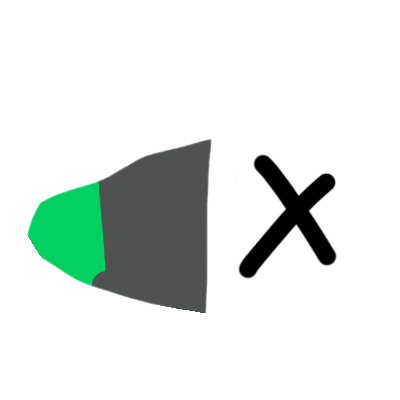
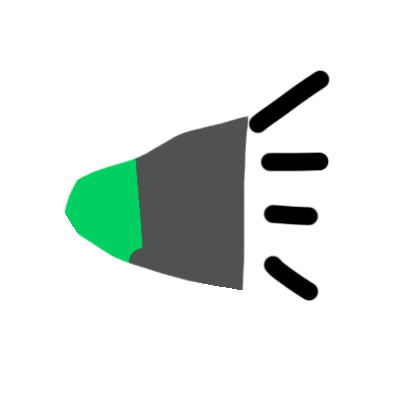
functional mute and option changing

Changed region(s): [[0.06, 0.15, 0.84, 0.78]]

diff --git a/scripts/pomodoro.js b/scripts/pomodoro.js
@@ -1,5 +1,5 @@
-const BREAK_TIME = 15; // break time in seconds
-const WORK_TIME = 12; // work time in seconds'
+var BREAK_TIME = 15; // break time in seconds
+var WORK_TIME = 12; // work time in seconds'
 const TRANSITION_TIME = 10; // how long to be in transition state for
 
 var muted = true;  // this gets flipped when the script is called, so default is unmuted actually
@@ -25,7 +25,7 @@ const getTimeLeft = (endTime) => {
 const CURR_TIME = Date.now();
 
 const transitionButton = () => {
-  finishSound.play();
+  if (!muted) finishSound.play();
   button = document.getElementById("pomobutton");
   button.className = "transition-timer";
   button.innerHTML = "";
@@ -78,7 +78,12 @@ const countdown = (button, endTime) => { // only called when active
 
 const activate = () => { // only called when inactive
   var btn = document.getElementById("pomobutton");
-  startSound.play();
+
+  // parse the two fields and update the time BEFORE we continue
+  BREAK_TIME = document.getElementById("breakTime").value * 60;
+  WORK_TIME = document.getElementById("workTime").value * 60;
+  
+  if (!muted) startSound.play();
   btn.className = "active-timer"
   btn.removeEventListener("click", activate);
   countdown(btn, Date.now() + WORK_TIME * 1000);
